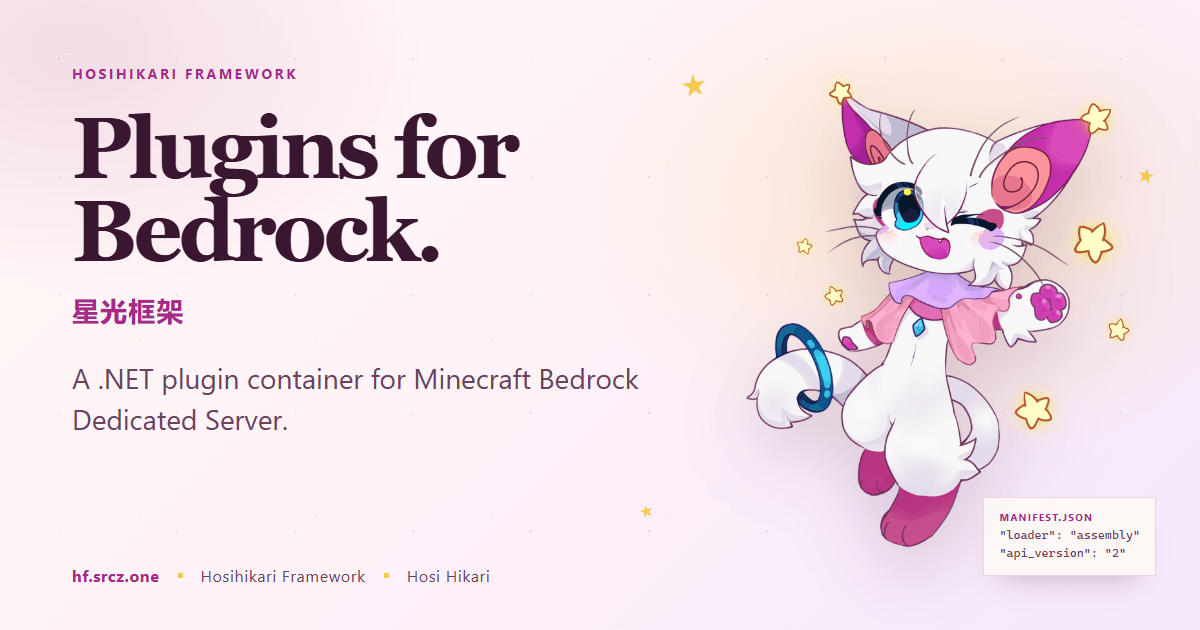
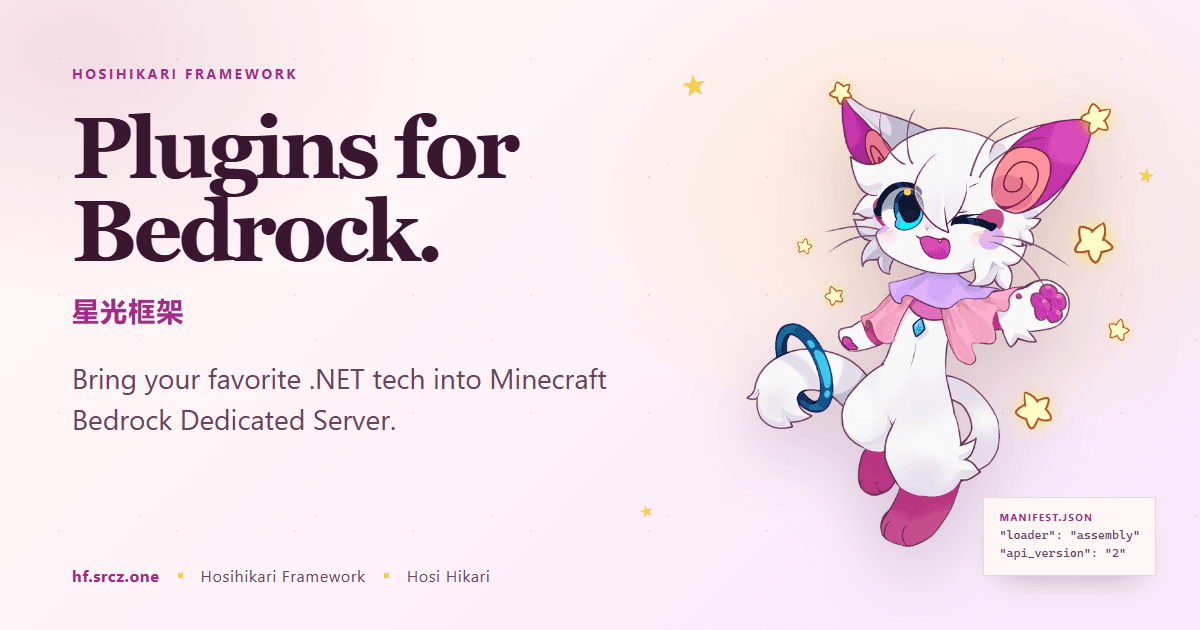
docs: refresh the hero slogan and add a release announcement (#14)
* docs: refresh the hero slogan and OG image

* docs: add a release announcement to the hero

* chore: pin astro 7.4.2 and starlight 0.42.7

---------

Changed region(s): [[0.0617, 0.573, 0.5242, 0.6937], [0.74, 0.3016, 0.7708, 0.3619]]

diff --git a/src/styles/custom.css b/src/styles/custom.css
@@ -249,6 +249,19 @@ div[data-slot='layout'] > header {
   color: var(--hf-ink);
 }
 
+[data-has-hero] .hero .hero-title-container a[data-slot='button'] {
+  margin-bottom: 0.35rem;
+  border: 1px solid var(--hf-code-border);
+  background: color-mix(in oklab, var(--hf-paper) 72%, transparent);
+  color: var(--hf-magenta-deep);
+  letter-spacing: 0.01em;
+}
+
+[data-has-hero] .hero .hero-title-container a[data-slot='button']:hover {
+  border-color: var(--hf-magenta);
+  background: var(--hf-paper);
+}
+
 [data-has-hero] .hero .actions a[data-variant='secondary']:hover {
   border-color: var(--hf-magenta);
   background: var(--hf-paper);
@@ -462,6 +475,16 @@ div[data-slot='layout'] > header {
 }
 
 [data-theme='dark'][data-has-hero] .hero .actions a[data-variant='secondary']:hover {
+  border-color: oklch(80.399% 0.119 318.829);
+  background: oklch(22.42% 0.041 308.684);
+}
+
+[data-theme='dark'][data-has-hero] .hero .hero-title-container a[data-slot='button'] {
+  background: oklch(18.985% 0.031 305.032 / 0.72);
+  color: oklch(80.399% 0.119 318.829);
+}
+
+[data-theme='dark'][data-has-hero] .hero .hero-title-container a[data-slot='button']:hover {
   border-color: oklch(80.399% 0.119 318.829);
   background: oklch(22.42% 0.041 308.684);
 }
